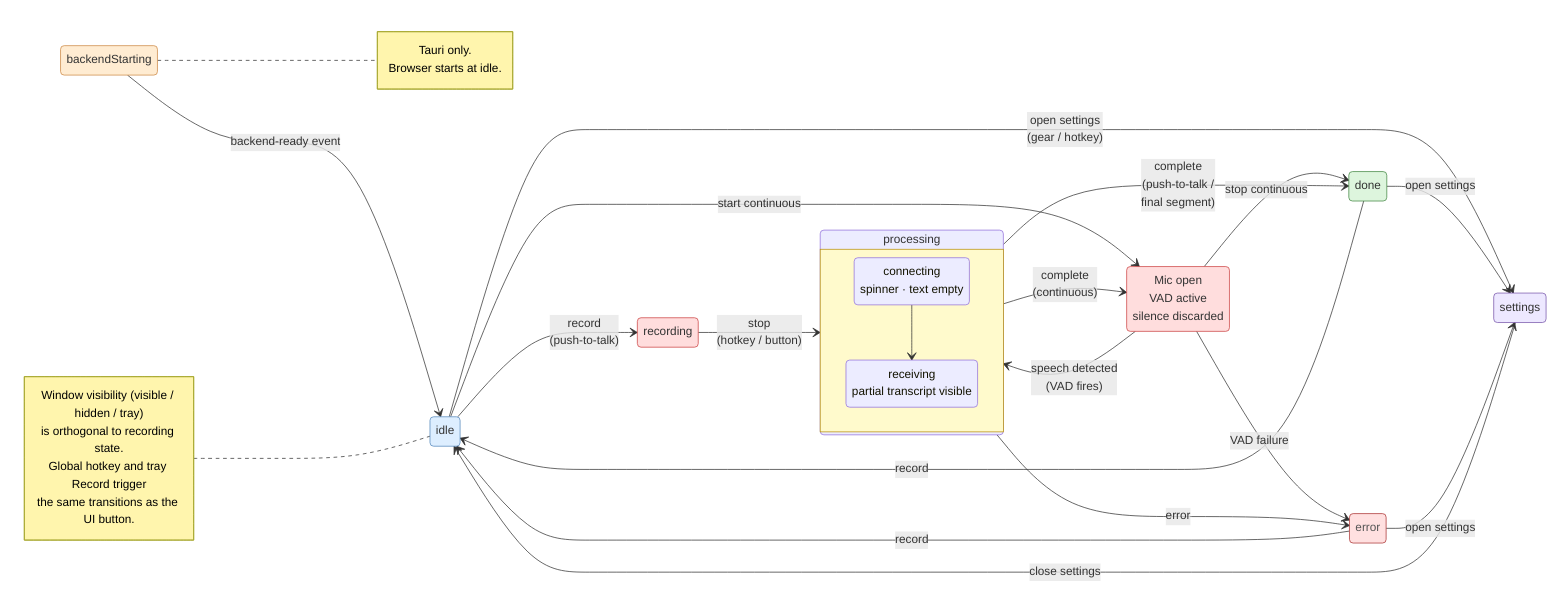
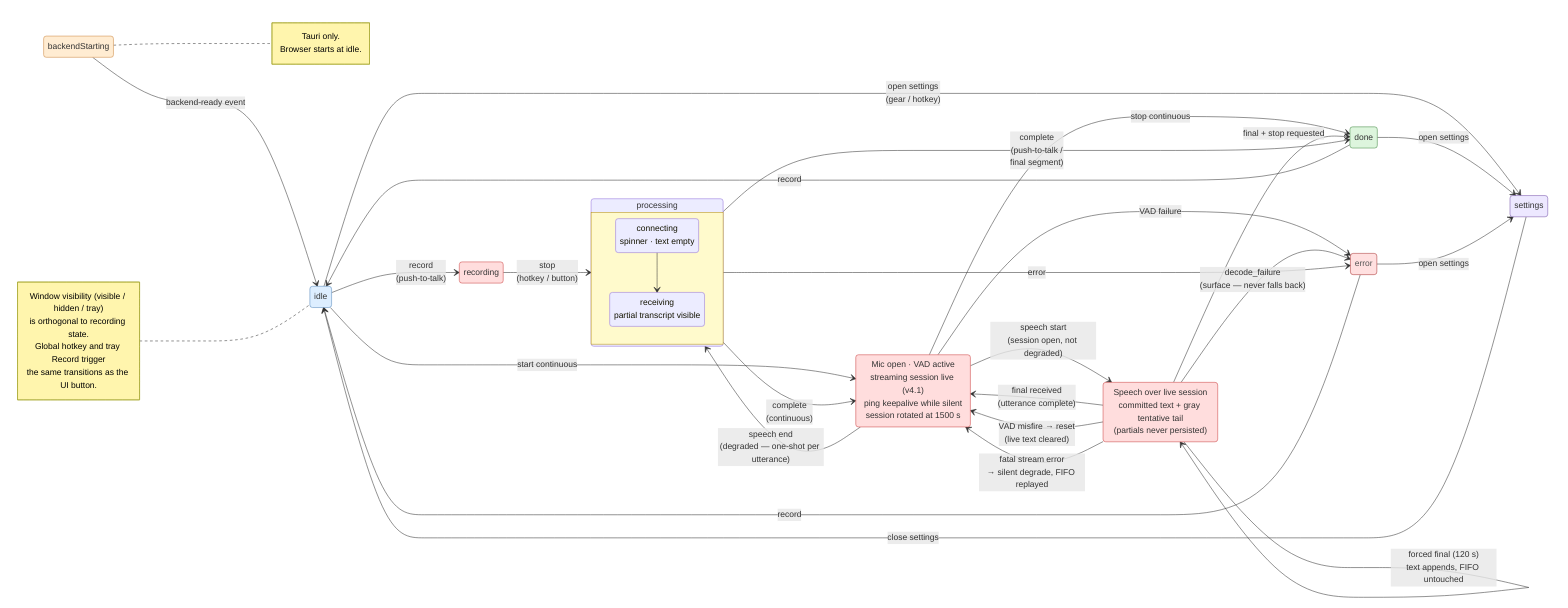
docs+types: v4.1 step 3 — diagrams before component code, streaming wire types
state-machine.mmd: new `streaming` state (committed + gray tentative tail),
forced-final self-loop (C3.4), misfire-reset / silent-degrade / decode_failure
transitions, listening note carries session-live + keepalive + 1500 s rotation.
privacy-data-flow.mmd: partial/committed now terminate in a read-only live
region (C4.2 — never the copyable textarea, final only), client retained-audio
surfaces added (pre-roll ring, unfinalized-utterance PCM FIFO) with deletion
points, VAD label corrected for the sanctioned C2.6 exceptions. PNGs re-rendered.

types/index.ts: RecordingState += "streaming"; /ws/stream server message
types mirroring app/schemas.py (idle_timeout_s optional = the C3.8 skew guard).

diff --git a/apps/web/src/types/index.ts b/apps/web/src/types/index.ts
@@ -2,6 +2,7 @@ export type RecordingState =
   | "idle"
   | "recording"
   | "listening"
+  | "streaming"
   | "processing"
   | "done"
   | "error";
@@ -55,3 +56,95 @@ export interface WsErrorMessage {
 }
 
 export type WsMessage = WsSegmentMessage | WsCompleteMessage | WsErrorMessage;
+
+// --- /ws/stream protocol v1 (docs/v4/protocol.md) — mirrors app/schemas.py ---
+
+export type StreamErrorCode =
+  | "busy"
+  | "preempted"
+  | "protocol_violation"
+  | "frame_too_large"
+  | "unsupported_format"
+  | "unsupported_version"
+  | "model_swapping"
+  | "decode_failure"
+  | "overrun"
+  | "session_timeout";
+
+export interface WsStreamReadyMessage {
+  type: "ready";
+  seq: number;
+  protocol_version: number;
+  session_id: string;
+  sample_rate: number;
+  sample_format: string;
+  max_frame_bytes: number;
+  model_name: string;
+  language: string | null;
+  decode_tick_ms: number;
+  max_uncommitted_s: number;
+  max_holdback_ticks: number;
+  /** C3.8 capability signal — absent on a v4.0 server; ping only when present. */
+  idle_timeout_s?: number;
+}
+
+/** C4.2: text REPLACES the entire tentative tail. Never persist, copy,
+ * transform, or act on partial text. */
+export interface WsStreamPartialMessage {
+  type: "partial";
+  seq: number;
+  utterance_id: number;
+  text: string;
+}
+
+/** C4.3: append-only delta; t0/t1 are received-audio seconds within the
+ * utterance. forced marks a holdback force-commit. */
+export interface WsStreamCommittedMessage {
+  type: "committed";
+  seq: number;
+  utterance_id: number;
+  text: string;
+  t0: number;
+  t1: number;
+  forced: boolean;
+}
+
+/** C4.4: raw carries the utterance's committed text as a literal prefix.
+ * Release signal for the retained utterance PCM (C10.3). */
+export interface WsStreamFinalMessage {
+  type: "final";
+  seq: number;
+  utterance_id: number;
+  raw: string;
+  cleaned: string;
+  language: string;
+  duration: number;
+  model_name: string;
+  processing_mode: string;
+  dropped_audio_ms: number;
+  forced: boolean;
+}
+
+export interface WsStreamErrorMessage {
+  type: "error";
+  seq: number;
+  code: StreamErrorCode;
+  detail: string;
+  fatal: boolean;
+}
+
+/** C4.6: utterance_id is the id in force AFTER the control was applied. */
+export interface WsStreamAckMessage {
+  type: "ack";
+  seq: number;
+  of: "stop" | "reset";
+  utterance_id: number;
+}
+
+export type WsStreamServerMessage =
+  | WsStreamReadyMessage
+  | WsStreamPartialMessage
+  | WsStreamCommittedMessage
+  | WsStreamFinalMessage
+  | WsStreamErrorMessage
+  | WsStreamAckMessage;
